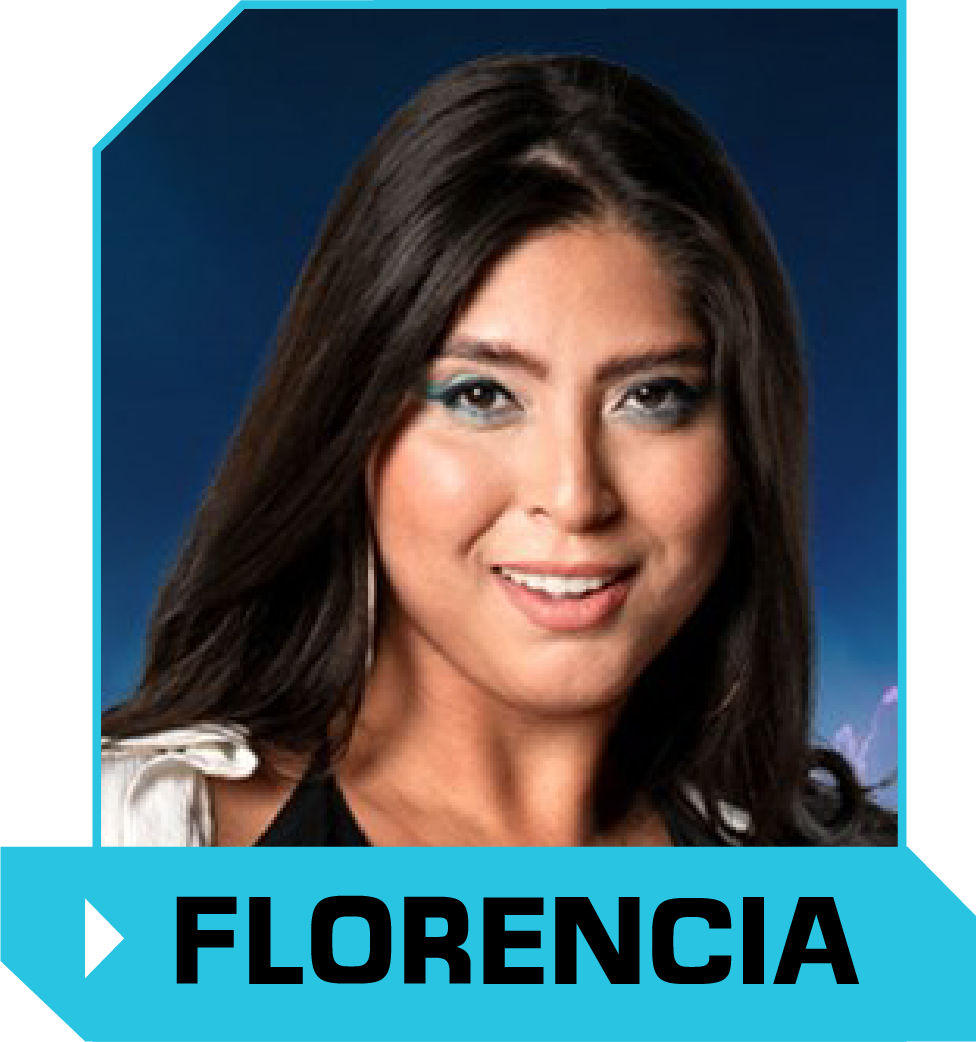
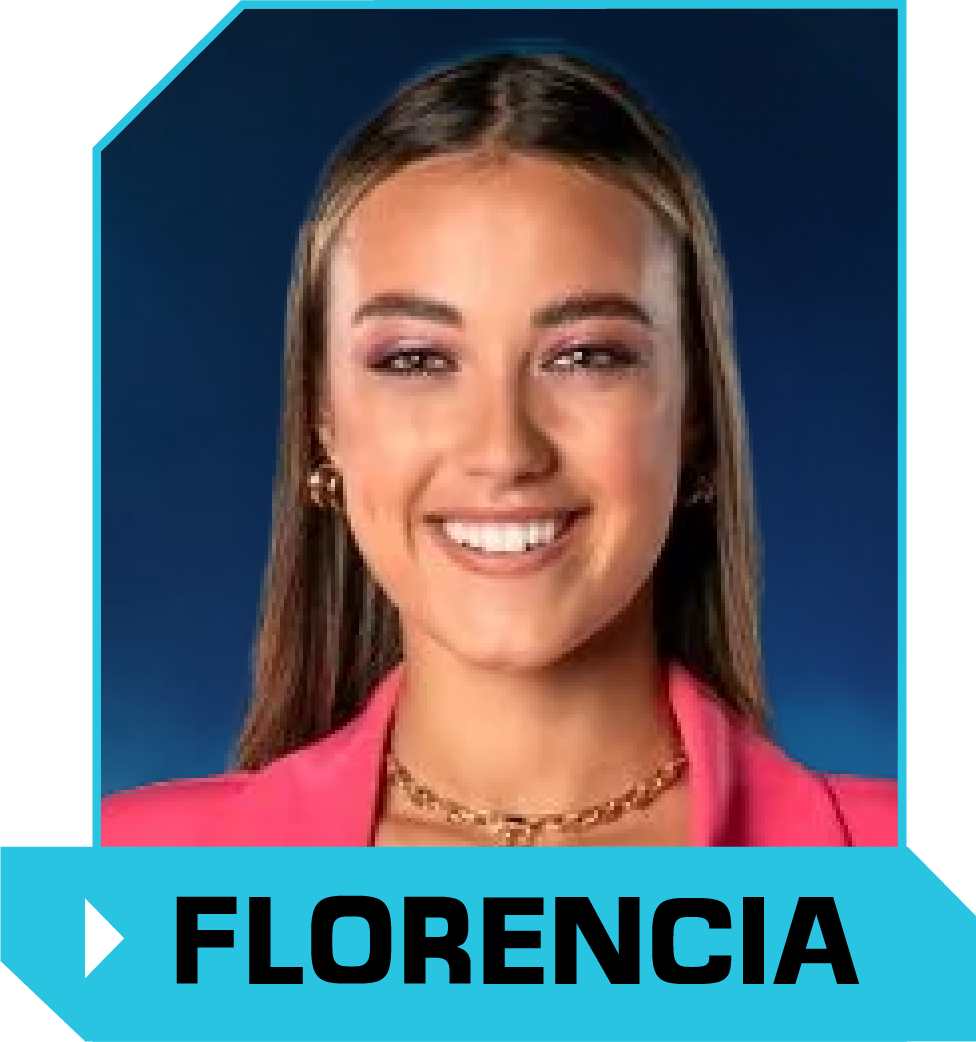
imagenes nuevos participantes

diff --git a/src/data/participantsToImage.js b/src/data/participantsToImage.js
@@ -4,10 +4,13 @@ import Axel from '../pictures/Axel.png'
 import Bautista from '../pictures/Bautista.png'
 import Carla from '../pictures/Carla.png'
 import Catalina from '../pictures/Catalina.png'
+import Damián from '../pictures/Damian.png'
+import Darío from '../pictures/Dario.png'
 import Denisse from '../pictures/Denisse.png'
 import Emmanuel from '../pictures/Emmanuel.png'
 import Federico from '../pictures/Federico.png'
 import Florencia from '../pictures/Florencia.png'
+import FlorenciaC from '../pictures/FlorenciaC.png'
 import Hernán from '../pictures/Hernan.png'
 import Isabel from '../pictures/Isabel.png'
 import Joel from '../pictures/Joel.png'
@@ -15,7 +18,9 @@ import Juliana from '../pictures/Juliana.png'
 import Lisandro from '../pictures/Lisandro.png'
 import Lucía from '../pictures/Lucia.png'
 import Martín from '../pictures/Martin.png'
+import Mauro from '../pictures/Mauro.png'
 import Nicolás from '../pictures/Nicolas.png'
+import Paloma from '../pictures/Paloma.png'
 import Rosina from '../pictures/Rosina.png'
 import Sabrina from '../pictures/Sabrina.png'
 import Virginia from '../pictures/Virginia.png'
@@ -29,10 +34,13 @@ export const participantsToImage = {
     Bautista: Bautista,
     Carla: Carla,
     Catalina: Catalina,
+    Damián: Damián,
+    Darío: Darío,
     Denisse: Denisse,
     Emmanuel: Emmanuel,
     Federico: Federico,
     Florencia: Florencia,
+    FlorenciaC: FlorenciaC,
     Hernán: Hernán,
     Isabel: Isabel,
     Joel: Joel,
@@ -40,7 +48,9 @@ export const participantsToImage = {
     Lisandro: Lisandro,
     Lucía: Lucía,
     Martín: Martín,
+    Mauro: Mauro,
     Nicolás: Nicolás,
+    Paloma: Paloma,
     Rosina: Rosina,
     Sabrina: Sabrina,
     Virginia: Virginia,
